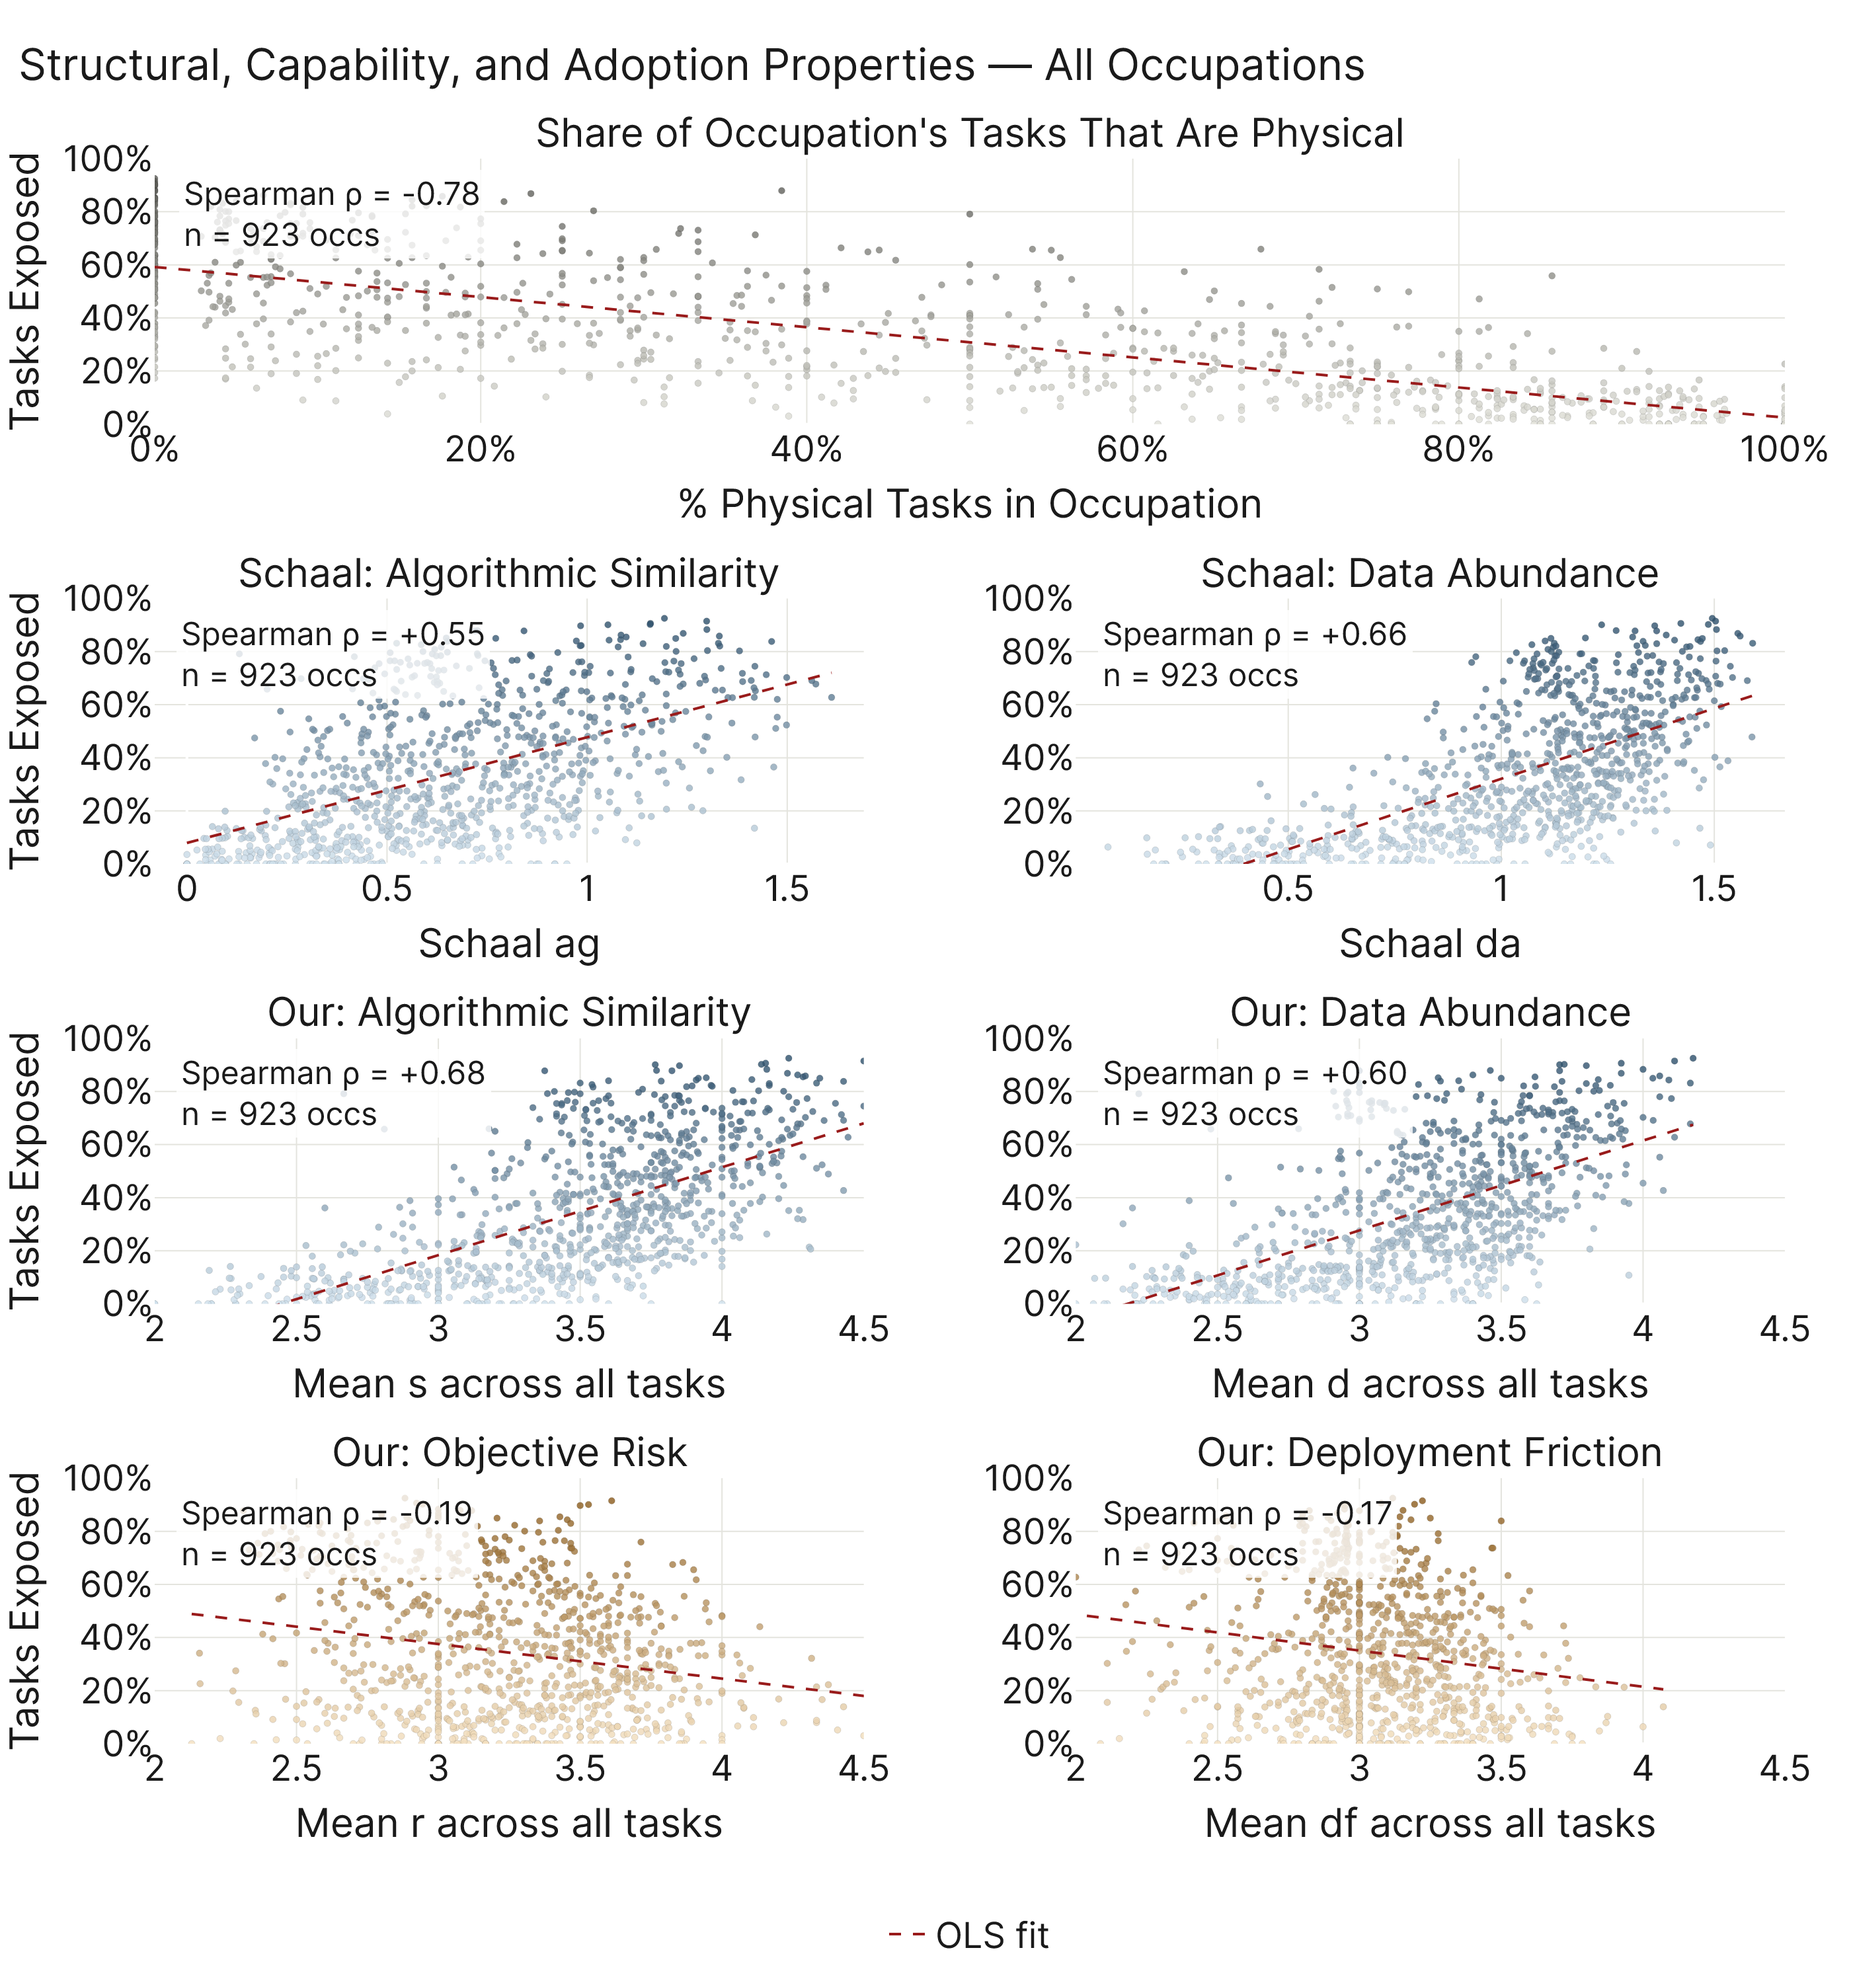
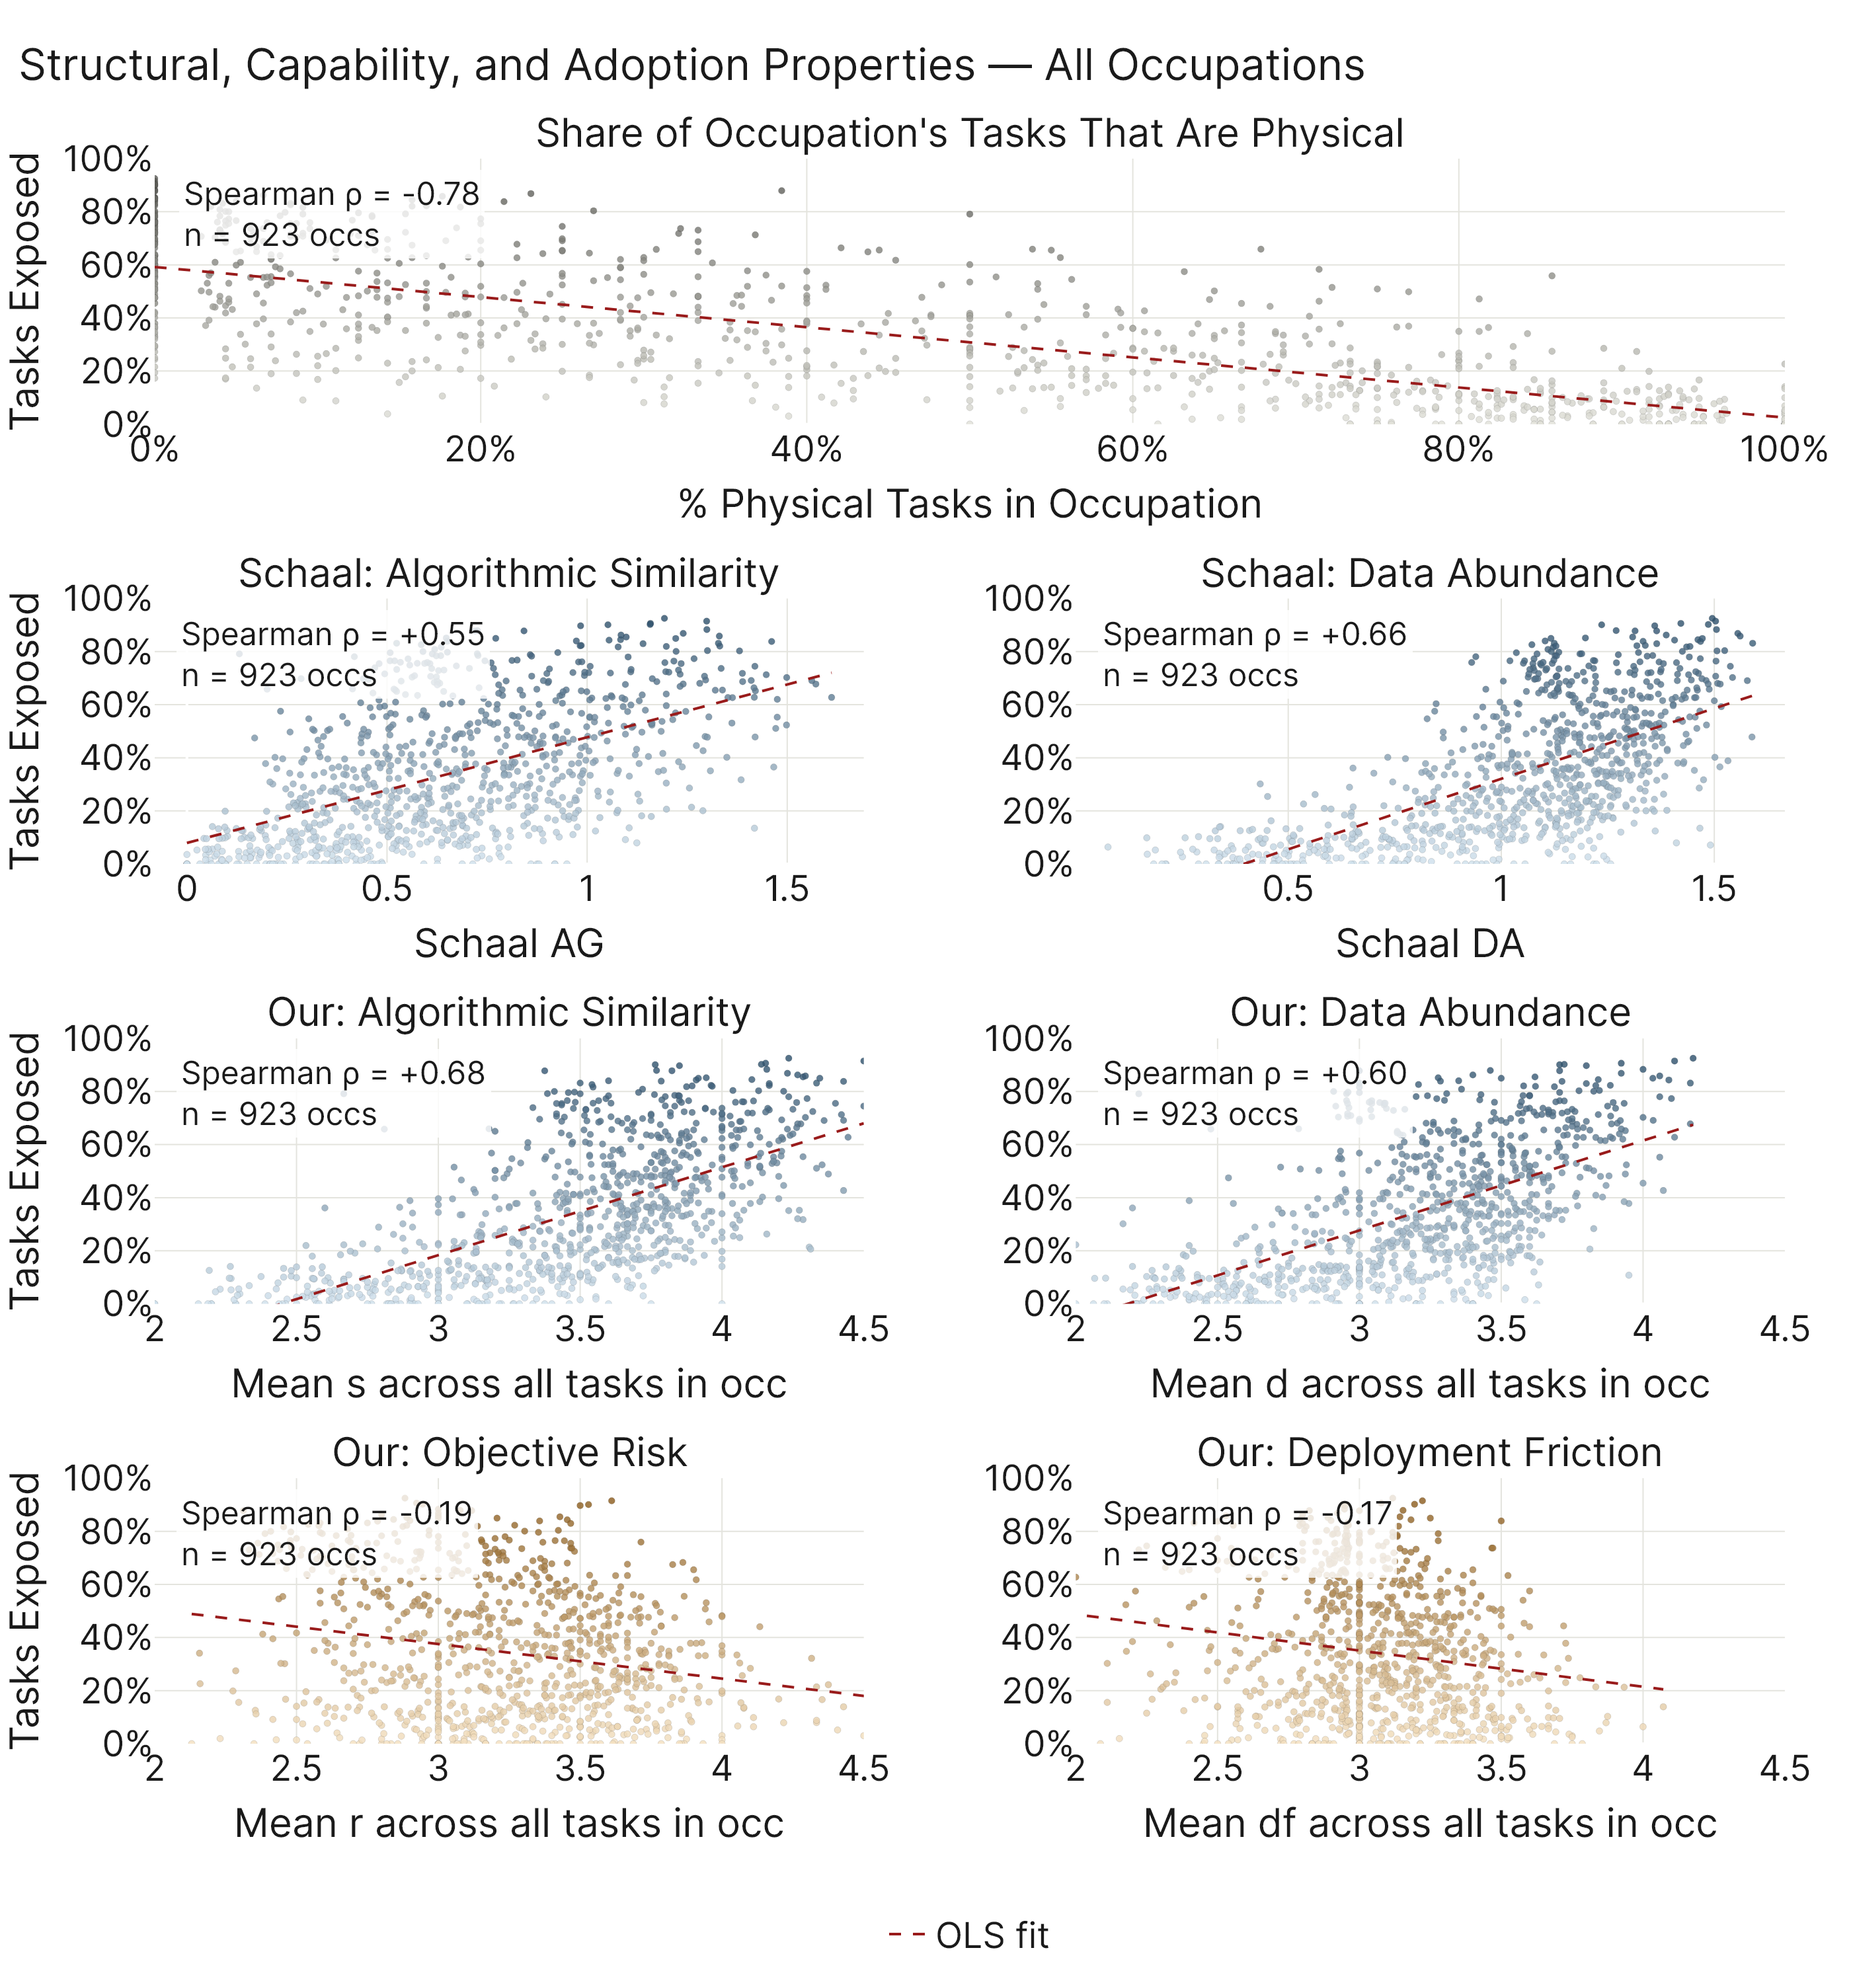
Edited axes to schaal and s and da correlation charts

diff --git a/analysis/paper/results/appendix/run.py b/analysis/paper/results/appendix/run.py
@@ -3950,12 +3950,12 @@ def build_adoption_friction_scatter(results: Path, figures: Path) -> None:
 
 CAP_ADO_PANELS: list[tuple[str, str, str, str]] = [
     # (col_key, panel_title, x-axis label, kind)
-    ("schaal_ag", "Schaal: Algorithmic Similarity", "Schaal ag",                "capability"),
-    ("schaal_da", "Schaal: Data Abundance",         "Schaal da",                "capability"),
-    ("s",         "Our: Algorithmic Similarity",    "Mean s across all tasks",  "capability"),
-    ("d",         "Our: Data Abundance",            "Mean d across all tasks",  "capability"),
-    ("r",         "Our: Objective Risk",            "Mean r across all tasks",  "adoption"),
-    ("df",        "Our: Deployment Friction",       "Mean df across all tasks", "adoption"),
+    ("schaal_ag", "Schaal: Algorithmic Similarity", "Schaal AG",                       "capability"),
+    ("schaal_da", "Schaal: Data Abundance",         "Schaal DA",                       "capability"),
+    ("s",         "Our: Algorithmic Similarity",    "Mean s across all tasks in occ",  "capability"),
+    ("d",         "Our: Data Abundance",            "Mean d across all tasks in occ",  "capability"),
+    ("r",         "Our: Objective Risk",            "Mean r across all tasks in occ",  "adoption"),
+    ("df",        "Our: Deployment Friction",       "Mean df across all tasks in occ", "adoption"),
 ]
 
 

diff --git a/analysis/ANALYSIS_ARCHITECTURE.md b/analysis/ANALYSIS_ARCHITECTURE.md
@@ -95,6 +95,14 @@ analysis/
 │   │                              IMPORTED BY paper/results/part_3/run.py.
 │   ├── audit_physical_delim/    — How much of paper convergence is just the
 │   │                              physical/non-physical cut.
+│   ├── audit_capability_phys_confound/ — Re-runs the appendix
+│   │                              capability_vs_adoption_all_occs correlations
+│   │                              (Schaal ag/da + our s/d, plus r/df) vs
+│   │                              all_confirmed exposure, conditioned on
+│   │                              non-physical occs (<33%), partial-correlation
+│   │                              on pct_physical, and a cutoff sweep. Headline:
+│   │                              capability ρ ≈ halves but survives (+0.6→+0.3
+│   │                              within cognitive); adoption frictions strengthen.
 │   ├── audit_microsoft_iwa/     — Microsoft's marginal contribution beyond AEI;
 │   │                              IWA-level extras audit. Closes loop with the
 │   │                              AI-share filter solution.
